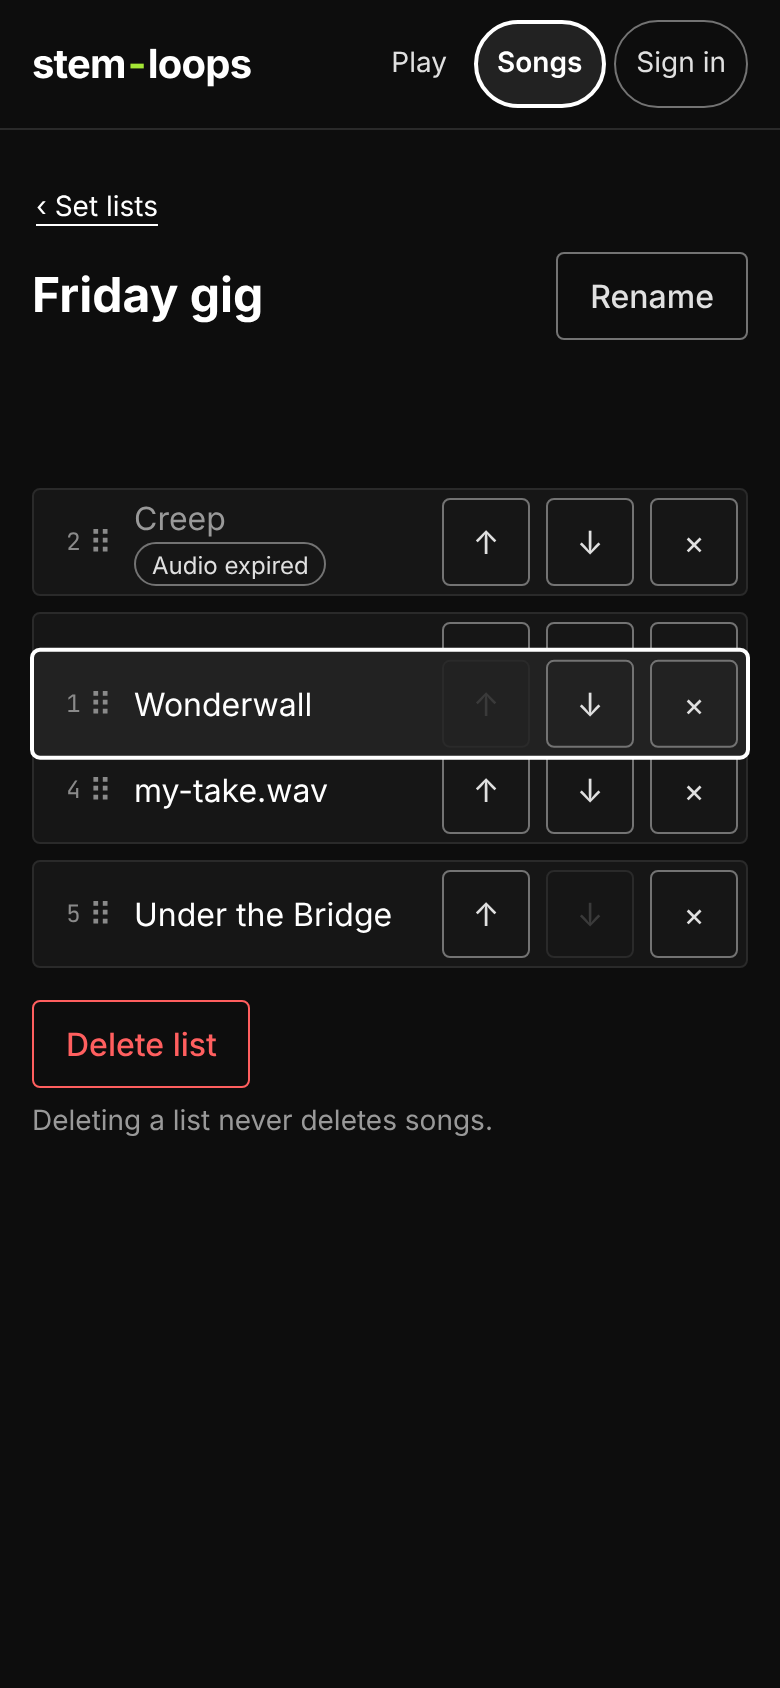
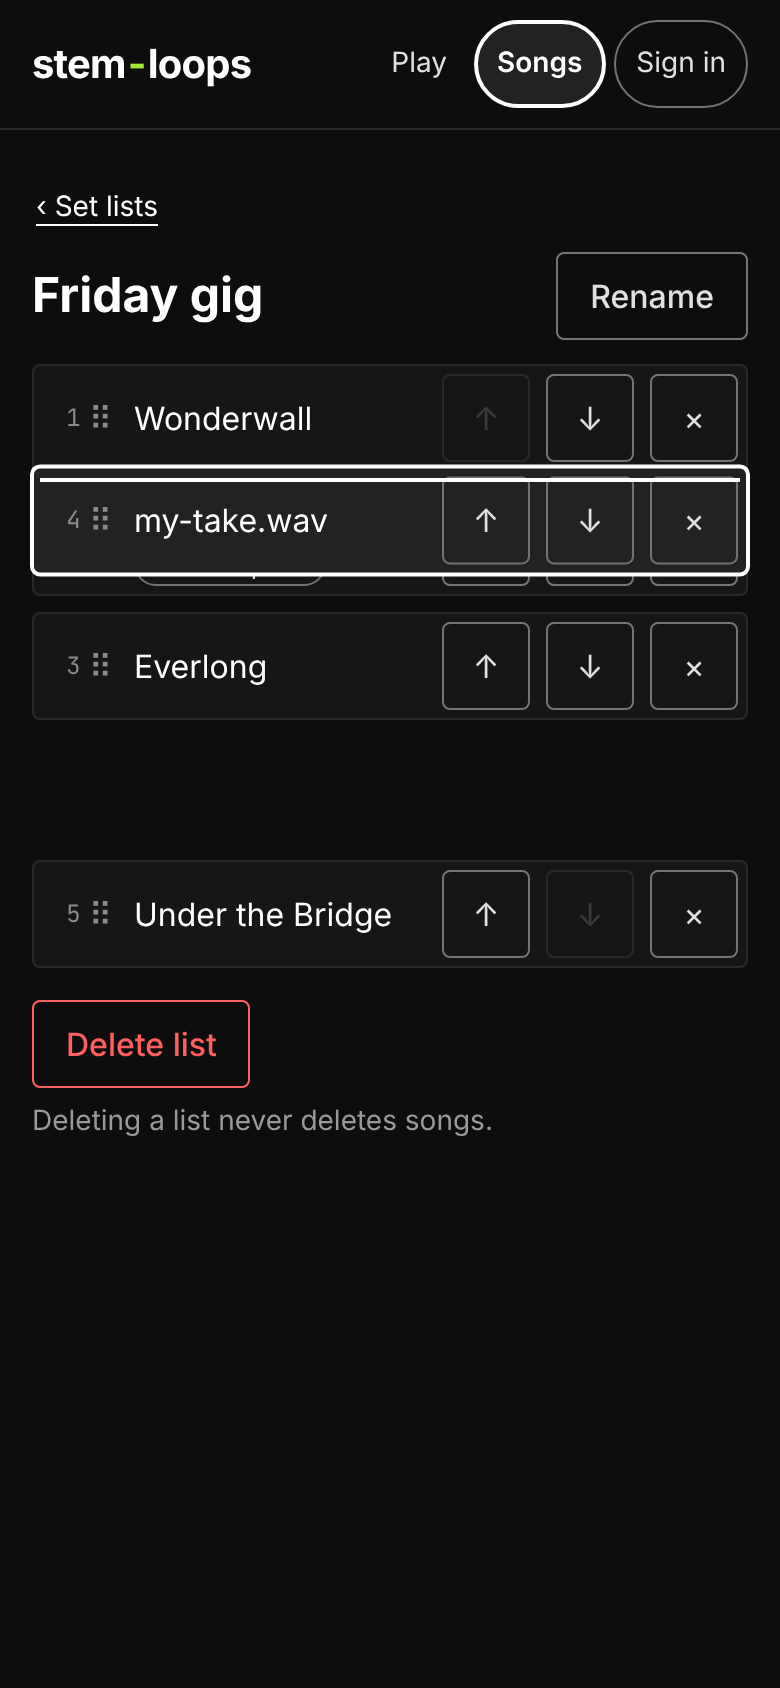
fix(setlists): review R1 should-fixes for nav current and drag reorder
- S1: on /sets and /sets/<id> the Song library item is the current section,
  aria-current="true" (it stays "page" on /history). songLibraryCurrent in
  lib/nav-current.ts; signed-in-nav test asserts "true" and no "page" there.
- S2: j12 adds a real TOUCH drag (CDP touch events) on a padded, scrolled
  page: window.scrollY unchanged during the drag, one PUT, order persists
  after a reload, then dragged back.
- S4: pointercancel, lostpointercapture and Escape cancel a drag: nothing is
  sent, the row and landing line go back, capture is released, the next drag
  works. Unit tests for each.
- Nit: the landing line is now a ::after above the dragged row (z-index 2),
  so it stays visible mid-drag; screens 03-05 re-shot at both sizes.

Claude-Session: https://claude.ai/code/session_01JqS8BYLQ3QzhUA3VPQtpyR

diff --git a/apps/web/src/components/setlists/SetListView.tsx b/apps/web/src/components/setlists/SetListView.tsx
@@ -13,7 +13,9 @@
 // where it will land; on release the whole new order goes in ONE request, the same PUT the Move
 // buttons send. The Move buttons stay: they are the keyboard path, so the handle is
 // pointer-only and hidden from assistive tech. Reduced motion: the row does not follow the
-// pointer; only the landing line and the final order change.
+// pointer; only the landing line and the final order change. A drag ends without a change on
+// pointercancel, on lostpointercapture (capture taken away before the release) and on Escape
+// (review R1, S4); the row goes back to its place and nothing is sent.
 //
 // A row whose song cannot play says why: "Audio expired" (a link: paste it again and the row
 // plays the new one), "Unavailable" (an upload or a demo song that is gone), "Processing".
@@ -75,7 +77,34 @@ export function SetListView({ id }: SetListViewProps) {
   const listRef = useRef<HTMLOListElement | null>(null);
   const [drag, setDrag] = useState<Drag | null>(null);
   /** Measured when a drag starts; the row centres stay fixed for the whole drag. */
-  const dragInfo = useRef<{ pointerId: number; startY: number; mids: number[] } | null>(null);
+  const dragInfo = useRef<{ pointerId: number; startY: number; mids: number[]; handle: HTMLElement } | null>(null);
+
+  /** End a drag with no change: nothing is sent, the row goes back. Safe to call twice. */
+  const cancelDrag = useCallback(() => {
+    const info = dragInfo.current;
+    if (!info) return;
+    dragInfo.current = null;
+    setDrag(null);
+    try {
+      if (info.handle.hasPointerCapture?.(info.pointerId)) info.handle.releasePointerCapture(info.pointerId);
+    } catch {
+      // Already released.
+    }
+  }, []);
+
+  // Escape cancels a drag in progress (mouse or touch).
+  const dragging = drag !== null;
+  useEffect(() => {
+    if (!dragging) return;
+    const onKey = (e: KeyboardEvent) => {
+      if (e.key !== 'Escape') return;
+      e.preventDefault();
+      cancelDrag();
+    };
+    const win = globalThis.window;
+    win?.addEventListener('keydown', onKey);
+    return () => win?.removeEventListener('keydown', onKey);
+  }, [dragging, cancelDrag]);
 
   const load = useCallback(
     async (signal?: AbortSignal) => {
@@ -169,7 +198,7 @@ export function SetListView({ id }: SetListViewProps) {
     } catch {
       // A synthetic or already-released pointer: the drag still works while over the handle.
     }
-    dragInfo.current = { pointerId: e.pointerId, startY: e.clientY, mids };
+    dragInfo.current = { pointerId: e.pointerId, startY: e.clientY, mids, handle: e.currentTarget };
     setDrag({ from: i, to: i, dy: 0, reduced: prefersReducedMotion() });
   };
 
@@ -184,10 +213,11 @@ export function SetListView({ id }: SetListViewProps) {
   const endDrag = (e: ReactPointerEvent<HTMLSpanElement>, commit: boolean) => {
     const info = dragInfo.current;
     if (!info || e.pointerId !== info.pointerId) return;
+    if (!commit) return cancelDrag();
     dragInfo.current = null;
     const d = drag;
     setDrag(null);
-    if (!commit || !d || !list) return;
+    if (!d || !list) return;
     const to = dropIndex(info.mids, d.from, info.mids[d.from] + (e.clientY - info.startY));
     if (to === d.from) return;
     const item = list.items[d.from];
@@ -336,6 +366,9 @@ export function SetListView({ id }: SetListViewProps) {
                     onPointerMove={onDragMove}
                     onPointerUp={(e) => endDrag(e, true)}
                     onPointerCancel={(e) => endDrag(e, false)}
+                    onLostPointerCapture={(e) => {
+                      if (dragInfo.current?.pointerId === e.pointerId) cancelDrag();
+                    }}
                   />
                 ) : null}
                 {playable ? (

diff --git a/apps/web/src/components/chrome/SignedInNav.tsx b/apps/web/src/components/chrome/SignedInNav.tsx
@@ -37,7 +37,7 @@
 // label hint reads the cookie after mount; both are view concerns.
 import { usePathname } from 'next/navigation';
 import { useEffect, useState } from 'react';
-import { isSongLibraryPath } from '@/lib/nav-current';
+import { isSongLibraryPath, songLibraryCurrent, type AriaCurrent } from '@/lib/nav-current';
 
 export type SignedInNavProps = {
   /**
@@ -59,6 +59,8 @@ type Item = {
   label: string;
   href: string;
   match: (p: string) => boolean;
+  /** The aria-current value when `match` holds; default "page". */
+  current?: (p: string) => AriaCurrent | null;
   outlined?: true;
   /** Set on the two product items: the tag shown beside the wordmark. */
   product?: string;
@@ -114,7 +116,8 @@ export default function SignedInNav({ signedIn }: SignedInNavProps) {
     { label: 'Download loops', href: '/loops', match: (p) => p === '/loops' || p.startsWith('/loops/'), product: 'Download loops', wideOnly: true },
     // Current on /history and on the set-list pages, /sets and /sets/<id> (B2 follow-up): set
     // lists have no item of their own (three phone items, A4), and they are lists of library songs.
-    { label: 'Song library', short: 'Songs', href: '/history', match: isSongLibraryPath },
+    // There it is the current section, not the page: aria-current="true" (review R1, S1).
+    { label: 'Song library', short: 'Songs', href: '/history', match: isSongLibraryPath, current: songLibraryCurrent },
     // P6 (Jon, 2026-11-17): Pricing is in the bar, signed in and out, on every
     // page including the landing. It belongs to neither product, so it carries
     // no `product` tag.
@@ -152,11 +155,12 @@ export default function SignedInNav({ signedIn }: SignedInNavProps) {
         <nav id="sin-menu" className="sin-nav" aria-label="Main">
           {items.map((it) => {
             const current = it.match(pathname);
+            const ariaCurrent = current ? (it.current?.(pathname) ?? 'page') : null;
             const cls = ['sin-item', current ? 'sin-current' : '', it.outlined ? 'sin-outlined' : '', it.wideOnly ? 'sin-wide-only' : '']
               .filter(Boolean)
               .join(' ');
             return (
-              <a key={it.label} className={cls} href={it.href} {...(current ? { 'aria-current': 'page' as const } : {})}>
+              <a key={it.label} className={cls} href={it.href} {...(ariaCurrent === 'page' ? { 'aria-current': 'page' as const } : ariaCurrent === 'true' ? { 'aria-current': 'true' as const } : {})}>
                 {it.short ? (
                   // One label per width: the hidden one is display:none, so the accessible name
                   // always matches what is on screen.

diff --git a/apps/web/src/components/setlists/SetLists.module.css b/apps/web/src/components/setlists/SetLists.module.css
@@ -316,12 +316,27 @@
   border-color: var(--text-primary);
   box-shadow: 0 0 0 1px var(--text-primary); /* 1px border + 1px ring = 2px, no layout shift */
 }
-/* Where it will land: a 2px #fff line above or below the row it would pass. */
-.row[data-drop='before'] {
-  box-shadow: 0 -5px 0 -3px var(--text-primary);
+/* Where it will land: a 2px #fff line in the gap above or below the row it would pass. The row
+   is positioned but makes no stacking context, so the line (z-index 2) paints over the dragged
+   row (z-index 1) and stays visible under the finger (review R1 nit). */
+.row[data-drop] {
+  position: relative;
 }
-.row[data-drop='after'] {
-  box-shadow: 0 5px 0 -3px var(--text-primary);
+.row[data-drop]::after {
+  content: '';
+  position: absolute;
+  left: 3px;
+  right: 3px;
+  height: 2px;
+  background: var(--text-primary);
+  z-index: 2;
+  pointer-events: none;
+}
+.row[data-drop='before']::after {
+  top: -6px;
+}
+.row[data-drop='after']::after {
+  bottom: -6px;
 }
 
 @media (prefers-reduced-motion: reduce) {

diff --git a/apps/web/src/lib/nav-current.ts b/apps/web/src/lib/nav-current.ts
@@ -14,3 +14,16 @@ export function isAtOrUnder(p: string, root: string): boolean {
 export function isSongLibraryPath(p: string): boolean {
   return p === '/history' || isAtOrUnder(p, '/sets');
 }
+
+export type AriaCurrent = 'page' | 'true';
+
+/**
+ * The aria-current value of the "Song library" item (review R1, S1). On /history the link IS
+ * the page: "page". On the set-list pages it is the current SECTION, not this page (the link
+ * goes to /history), so "true". Elsewhere null: not current.
+ */
+export function songLibraryCurrent(p: string): AriaCurrent | null {
+  if (p === '/history') return 'page';
+  if (isAtOrUnder(p, '/sets')) return 'true';
+  return null;
+}
